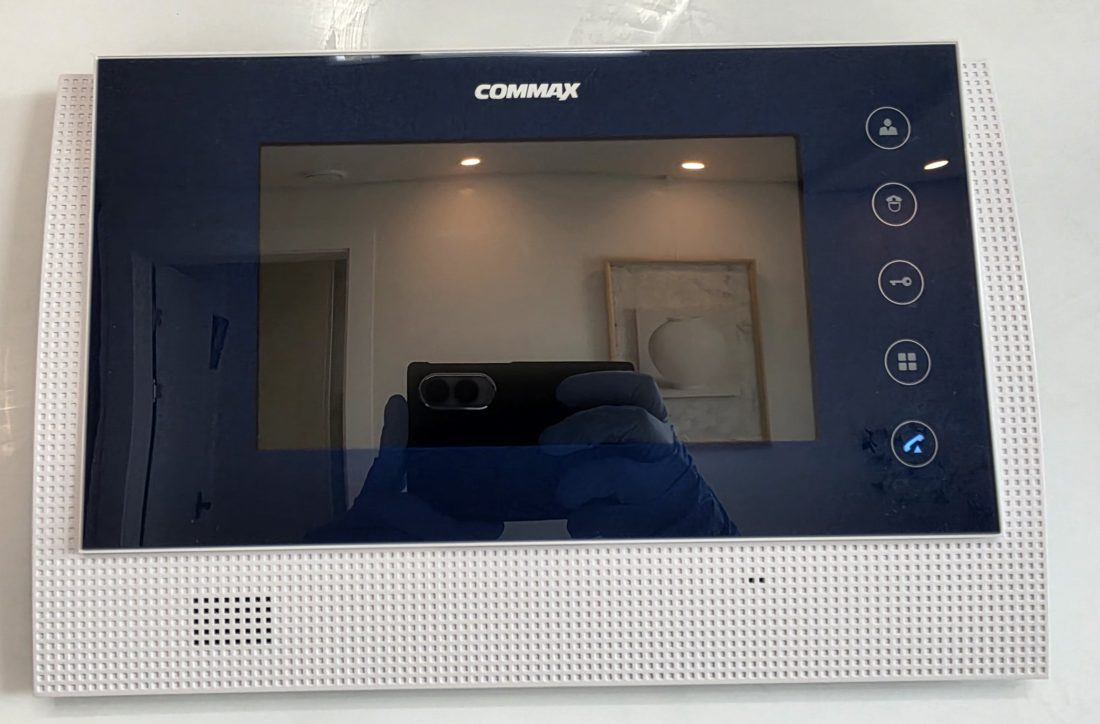
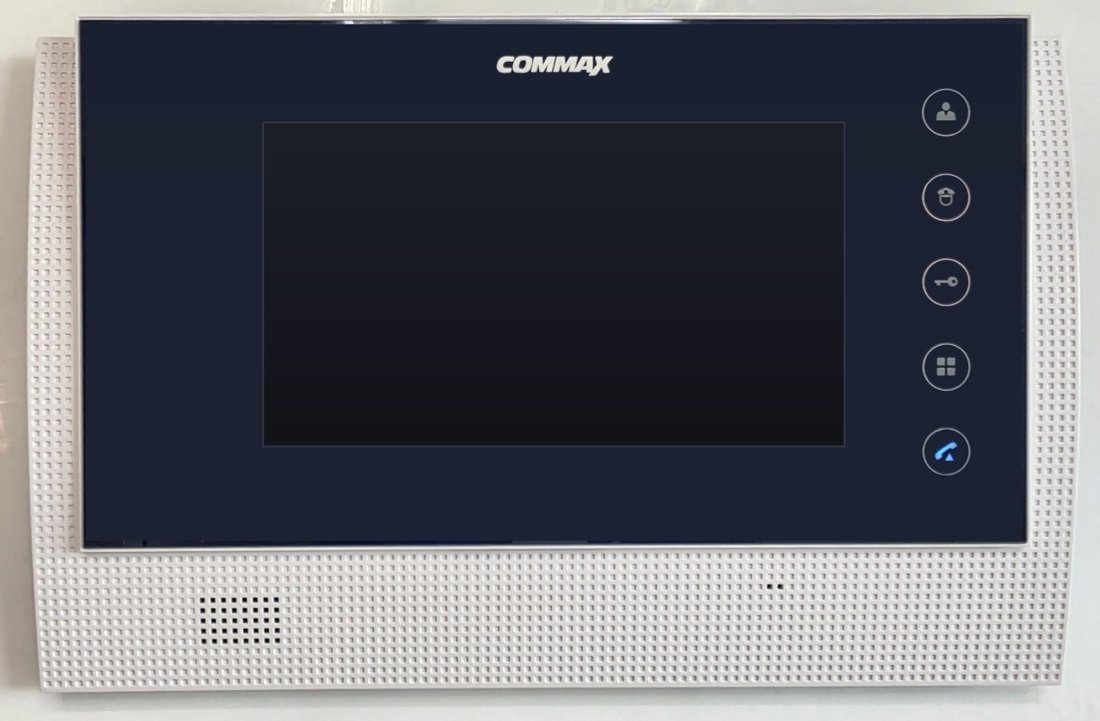
Straighten intercom photo and remove reflections
Perspective-corrected so the panel is level, cleared the phone/hand
reflection from the screen and glass, and realigned the number badges.

Claude-Session: https://claude.ai/code/session_013o6XxXmBE1bi9THgSeACsS

diff --git a/index.html b/index.html
@@ -213,9 +213,9 @@ const CONFIG = {
       name: { kr: "인터폰 (1층 문 열어주기)", en: "Intercom (opening the ground-floor door)", cn: "对讲机（为一楼开门）" },
       location: { kr: "거실 보일러 조절기 바로 위에 있습니다", en: "Right above the boiler control in the living room", cn: "就在客厅锅炉控制面板的上方" },
       markers: [
-        { n: "1", x: 48, y: 41, label: { kr: "화면: 누구인지 확인", en: "Screen: see who it is", cn: "屏幕：确认访客" } },
-        { n: "2", x: 73, y: 17.5, label: { kr: "사람 모양 버튼", en: "Person button", cn: "人形按钮" } },
-        { n: "3", x: 74, y: 38.9, label: { kr: "열쇠 모양 버튼 (문 열림)", en: "Key button (opens the door)", cn: "钥匙按钮（开门）" } }
+        { n: "1", x: 50, y: 39.5, label: { kr: "화면: 누구인지 확인", en: "Screen: see who it is", cn: "屏幕：确认访客" } },
+        { n: "2", x: 74, y: 15.5, label: { kr: "사람 모양 버튼", en: "Person button", cn: "人形按钮" } },
+        { n: "3", x: 74, y: 39.1, label: { kr: "열쇠 모양 버튼 (문 열림)", en: "Key button (opens the door)", cn: "钥匙按钮（开门）" } }
       ],
       steps: [
         { title: { kr: "1층에서 벨이 울리면 (배달·방문객)", en: "When someone rings from the ground floor", cn: "有人在一楼按门铃时（外卖、访客）" },
